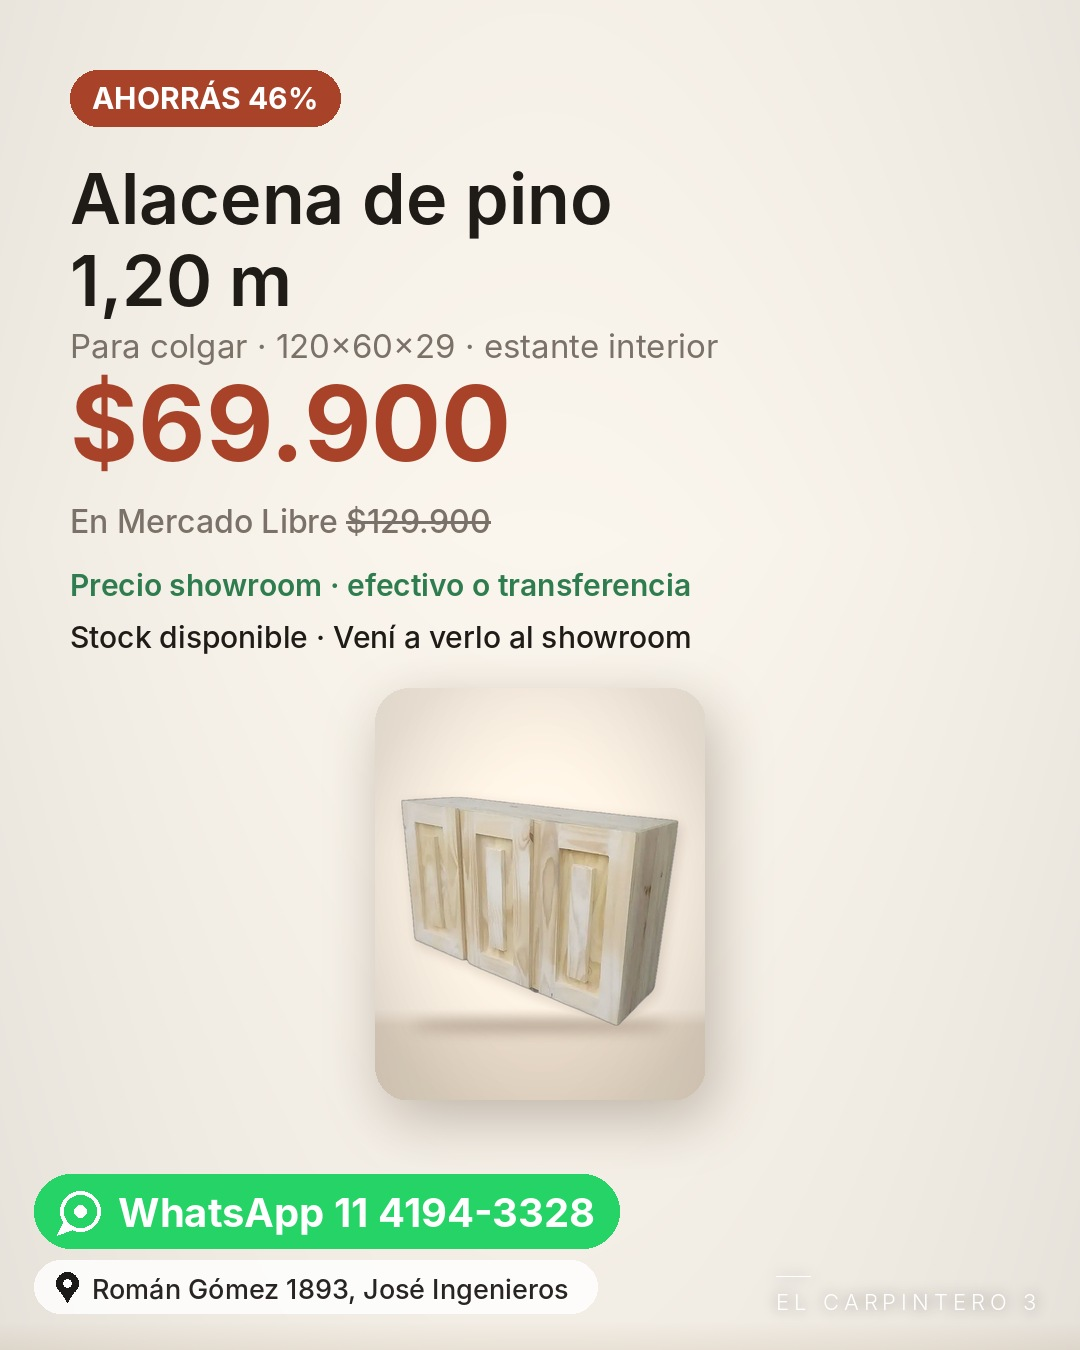
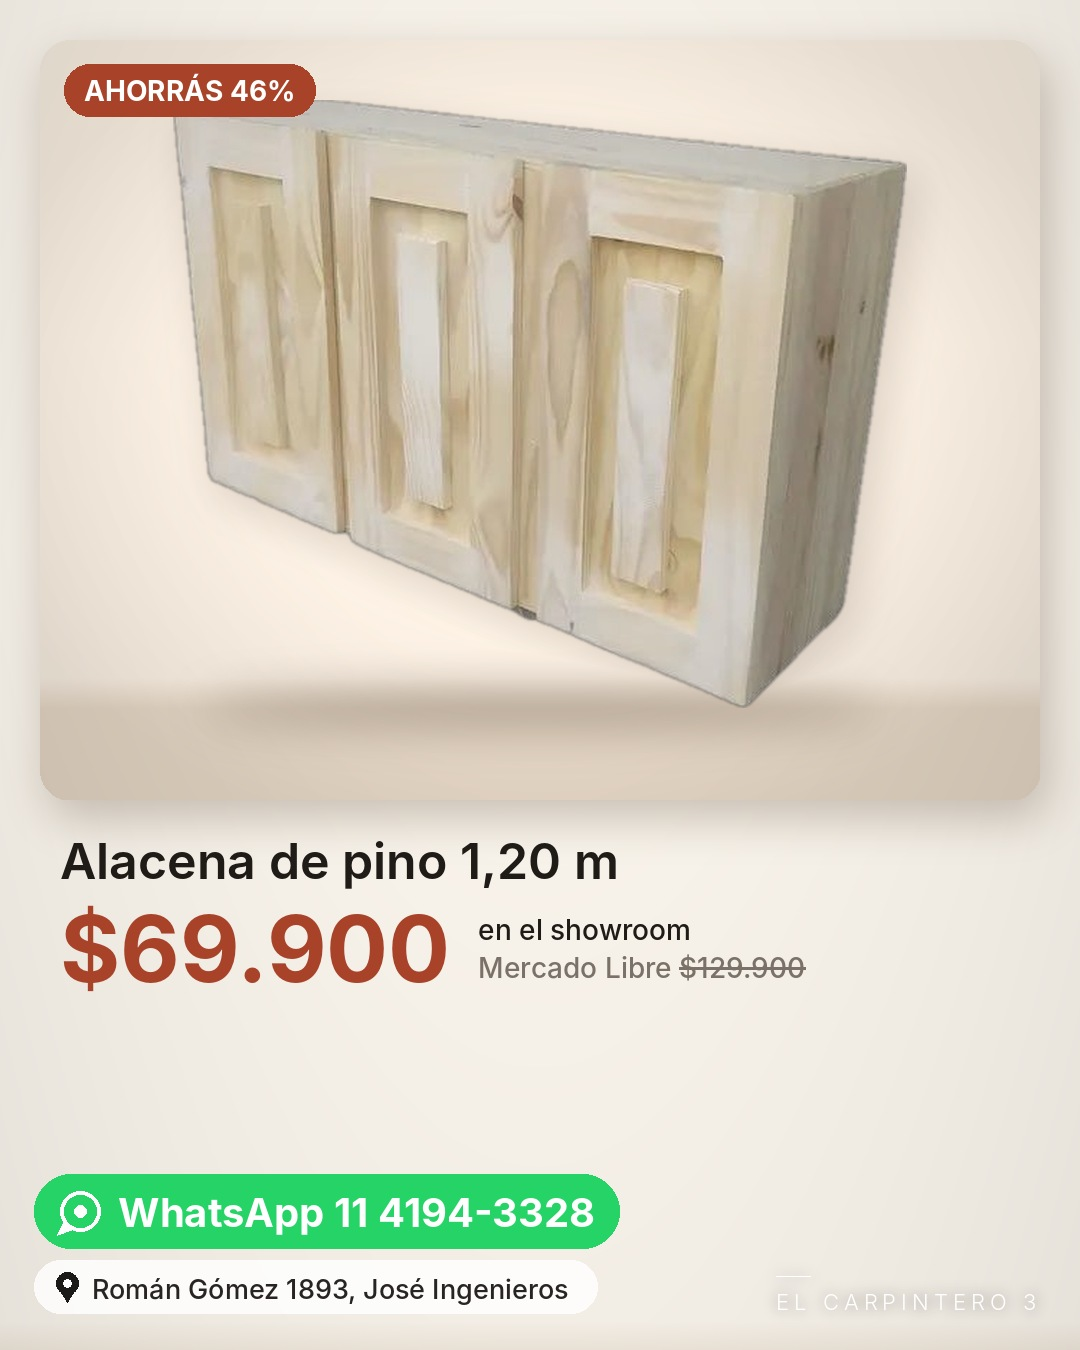
Carpintero: promos de feed con el mueble entero y grande
Claude-Session: https://claude.ai/code/session_01A1E79jFGR5YGzfCcEPwEV4

diff --git a/clientes/carpintero/herramientas/promos.py b/clientes/carpintero/herramientas/promos.py
@@ -95,3 +95,36 @@ if __name__ == "__main__":
     pieza("wa-1117/foto-13.jpg", "promo-4-bano-historia.jpg", "PARA TU BAÑO", "Botiquín\ncon espejo", "Laqueado blanco, con luz · mini tolva $189.000", "$149.000", desde=True)
     pieza("wa-1117/foto-13.jpg", "promo-4-bano.jpg", "PARA TU BAÑO", "Botiquín con espejo", "Laqueado blanco, con luz · mini tolva $189.000", "$149.000", desde=True, alto=1350)
     print("ok")
+
+
+def feed(foto, salida, etiqueta, nombre, precio, ml, estudio=True):
+    """Post 1080x1350: foto grande arriba, precio grande abajo, sello de WhatsApp + dirección."""
+    W, H = 1080, 1350
+    lienzo = pv.fondo_estudio(W, H, piso=0.999).convert("RGB")
+    if estudio:
+        from rembg import remove, new_session
+        cut = remove(Image.open(os.path.join(pv.F, foto)).convert("RGB"), session=new_session("isnet-general-use"))
+        im = pv.gradar(pv.estudio(cut, w=1000, h=760, alto=0.80, piso=0.86))
+    else:
+        im = pv.gradar(ImageOps.exif_transpose(Image.open(os.path.join(pv.F, foto))).convert("RGB"))
+        im.thumbnail((1000, 760))
+    t, m = tarjeta(im, 1000, 760, radio=30)
+    sombra = Image.new("L", lienzo.size, 0); sombra.paste(m, (48, 58))
+    lienzo.paste((90, 70, 50), (0, 0), sombra.filter(ImageFilter.GaussianBlur(22)).point(lambda v: int(v * 0.3)))
+    lienzo.paste(t, (40, 40), m)
+    d = ImageDraw.Draw(lienzo)
+    fe = f("Inter-Bold.otf", 28); tw = d.textlength(etiqueta, font=fe)
+    d.rounded_rectangle((64, 64, 64 + tw + 40, 116), 26, fill=TERRA)
+    d.text((84, 90), etiqueta, font=fe, fill="white", anchor="lm")
+    y = 830
+    d.text((60, y), nombre, font=f("Inter-SemiBold.otf", 50), fill=TX)
+    fp = f("Inter-Bold.otf", 92); d.text((60, y + 62), precio, font=fp, fill=TERRA)
+    px = 60 + d.textlength(precio, font=fp) + 28
+    fm = f("Inter-Medium.otf", 28)
+    d.text((px, y + 82), "en el showroom", font=fm, fill=TX)
+    t1 = "Mercado Libre "; d.text((px, y + 120), t1, font=fm, fill=MU)
+    ax = px + d.textlength(t1, font=fm); d.text((ax, y + 120), ml, font=fm, fill=MU)
+    d.line((ax, y + 138, ax + d.textlength(ml, font=fm), y + 138), fill=MU, width=3)
+    lienzo = pv.firma(lienzo)
+    lienzo = pv.sello(lienzo, k=1.0)
+    lienzo.save(os.path.join(OUT, salida), quality=93)
